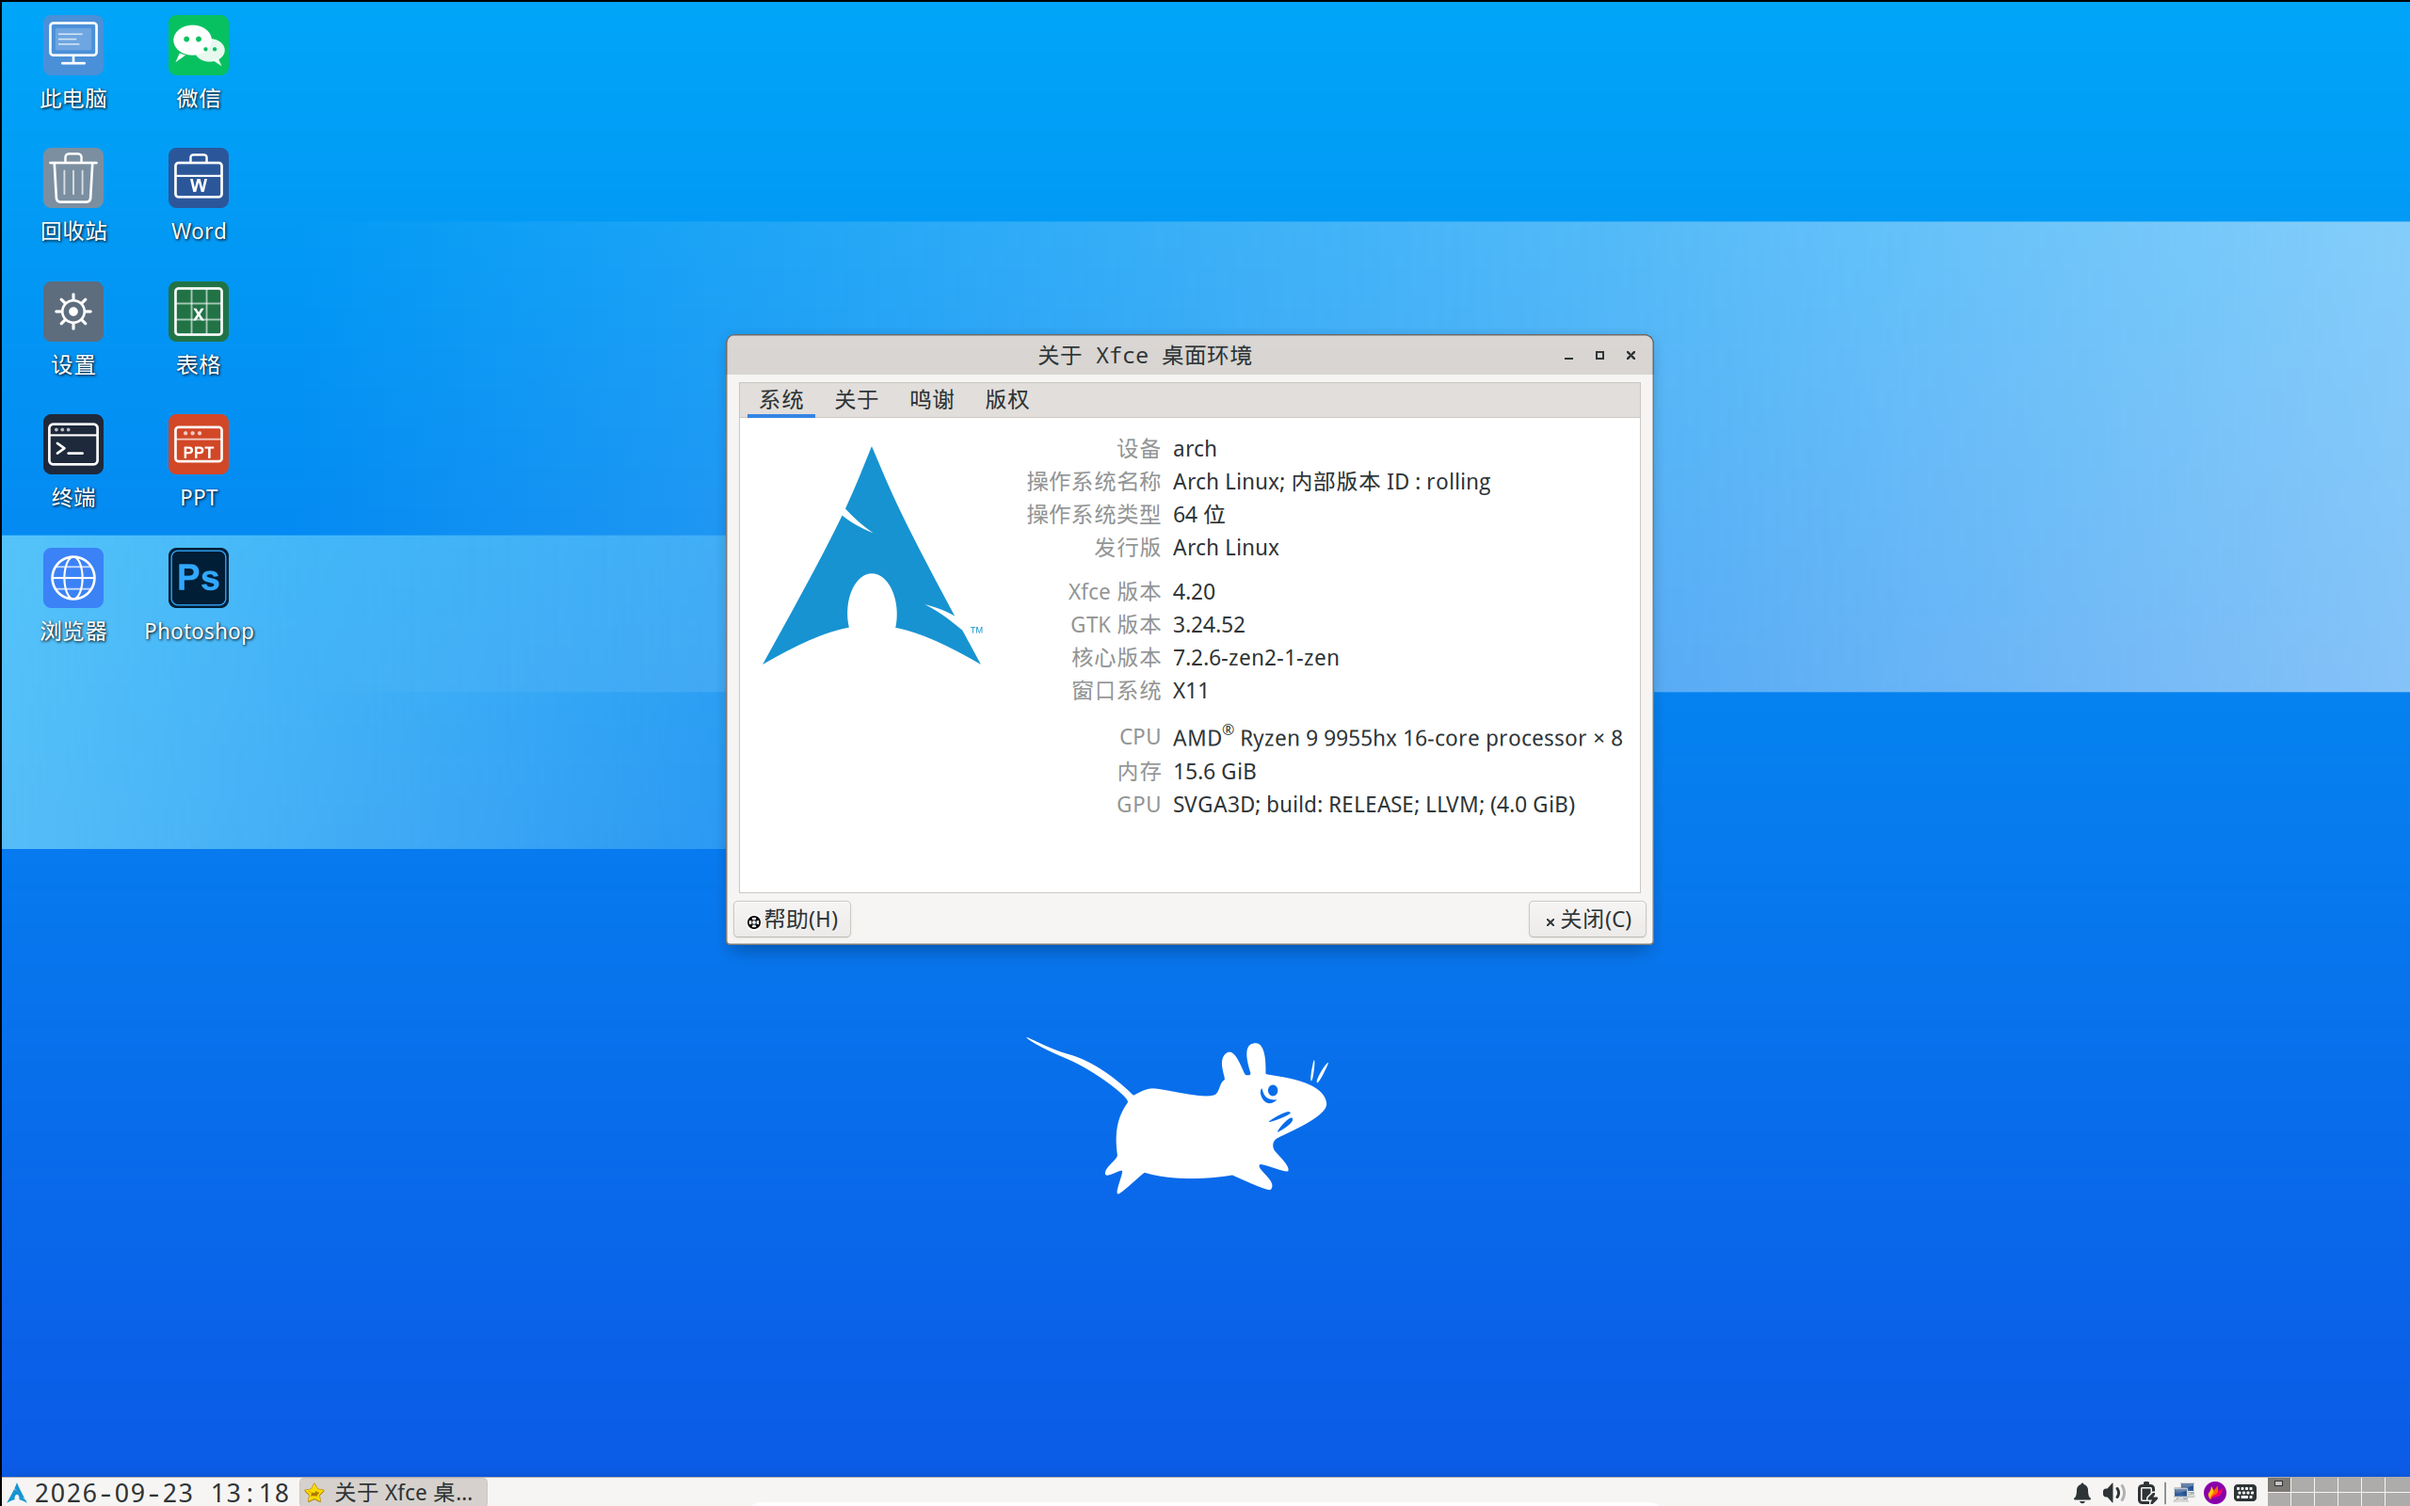
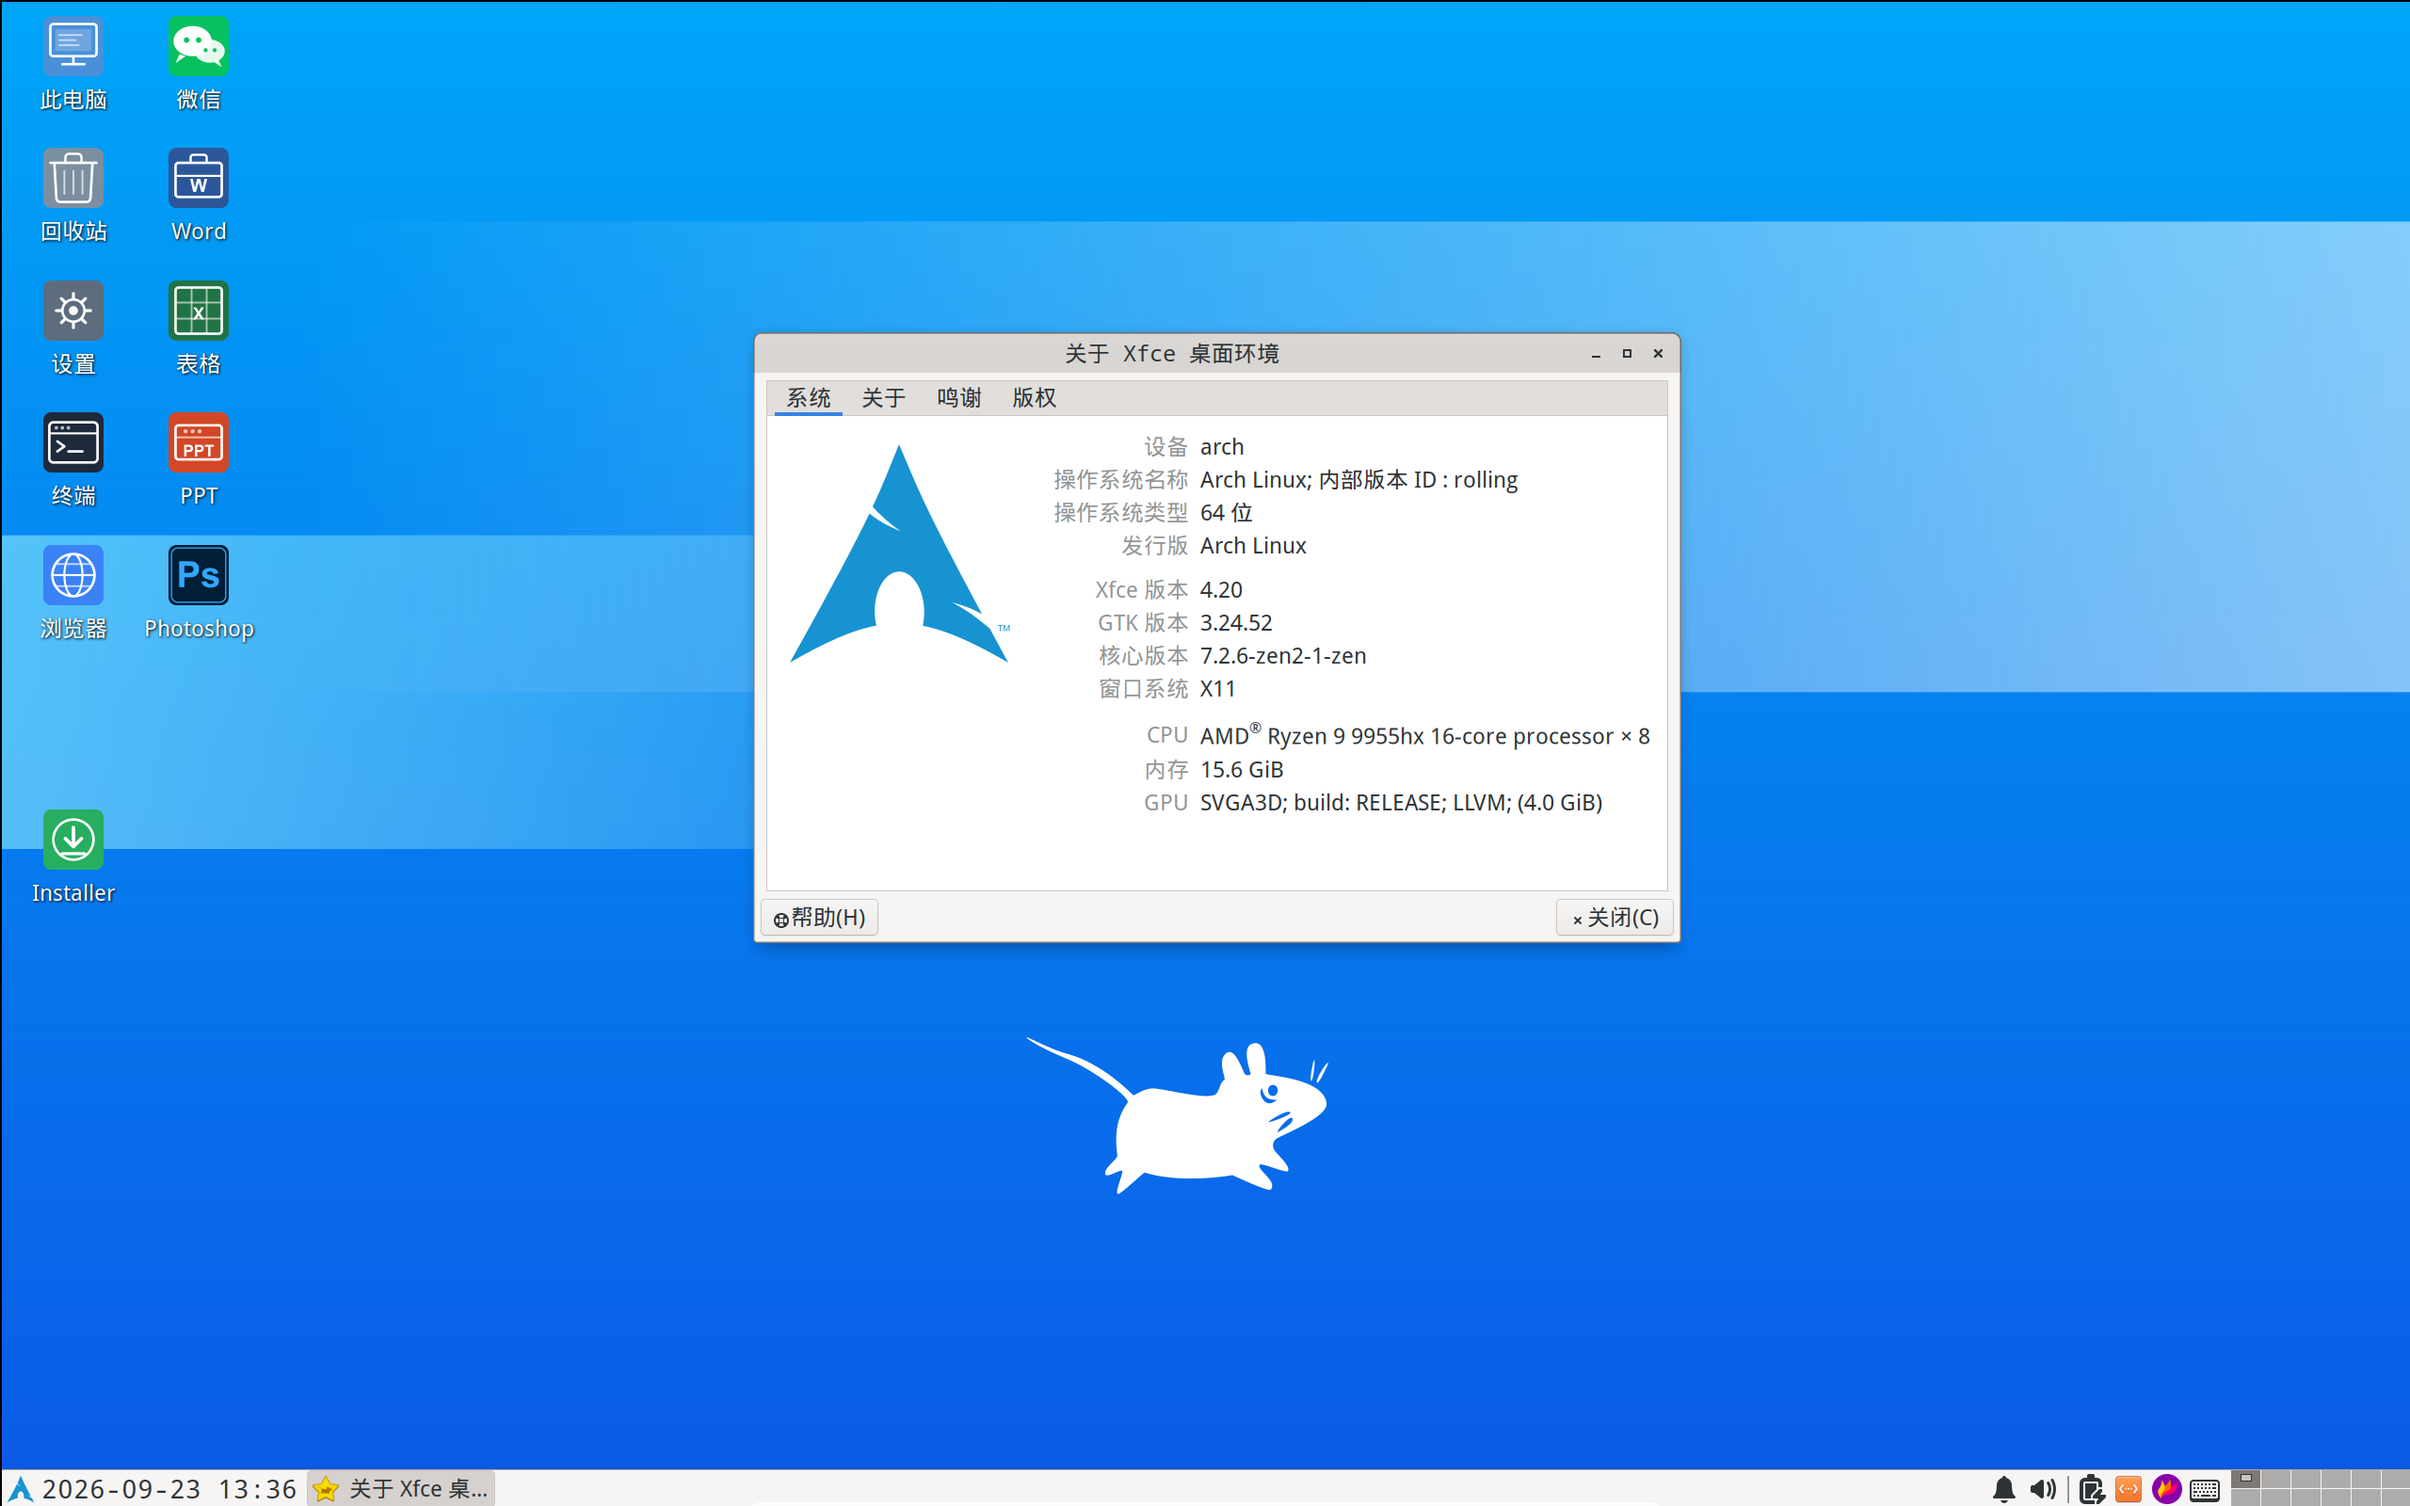
docs: Update README.

diff --git a/README.md b/README.md
@@ -2,10 +2,13 @@
 
 中文 | [English](docs/README-EN.md)
 
-以自己本地稳定运行 **五年+** 的 Arch Linux + Xfce4 桌面系统为蓝本，在保证轻量、美观的前提下，
-尽可能包含更多的维护工具。
+近几年 ArchISO 体积增长了 1GB 多，功能却没有什么显著变化，反而多次变更 linux 和 initrd
+路径造成启动失败，误事。
 
-既可用作快速安装镜像，也可替代 ArchISO 用作 Live 维护系统。
+遂以自己本地稳定运行 **五年+** 的 Arch Linux + Xfce4 桌面系统为蓝本，制作了一个镜像。
+在保证轻量、美观的前提下，尽可能包含更多的维护工具。
+
+既可用作快速安装镜像，也可替代 ArchISO 充当 Live 维护系统。
 
 ## 安装
 
